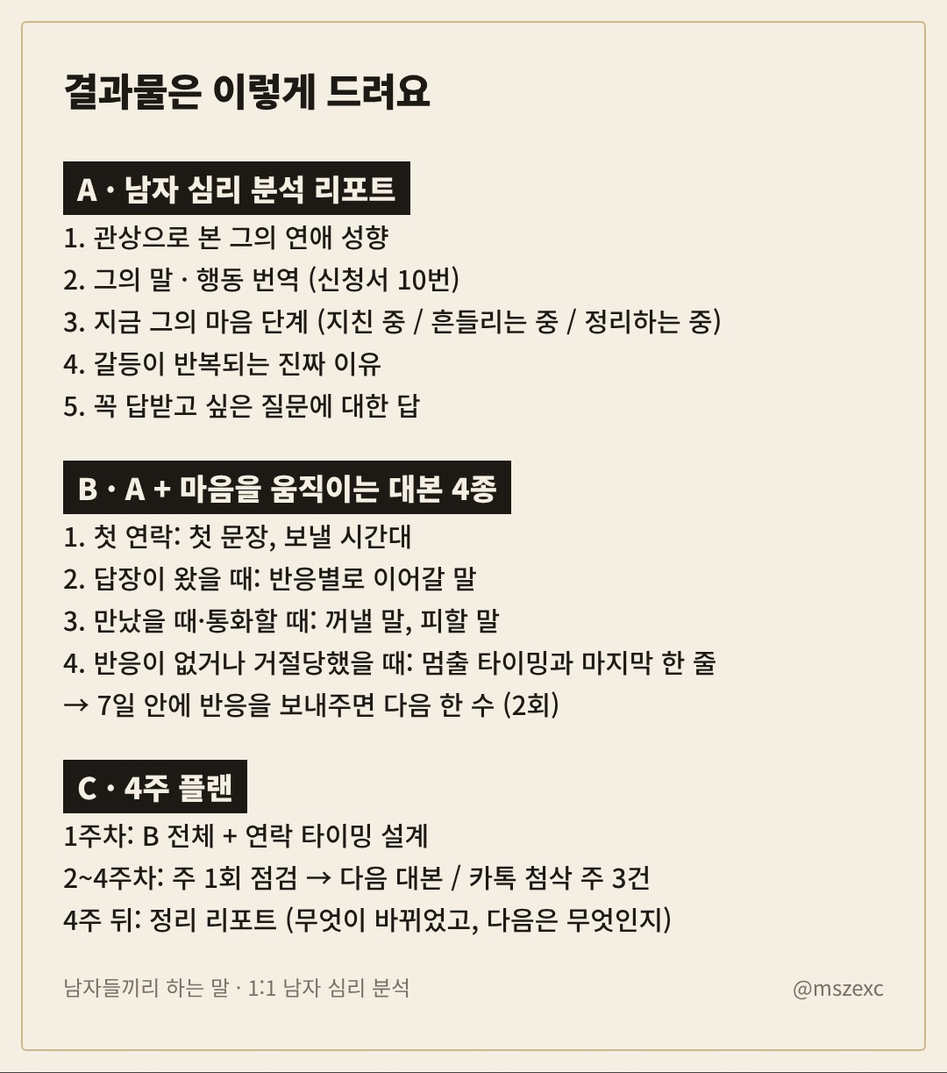
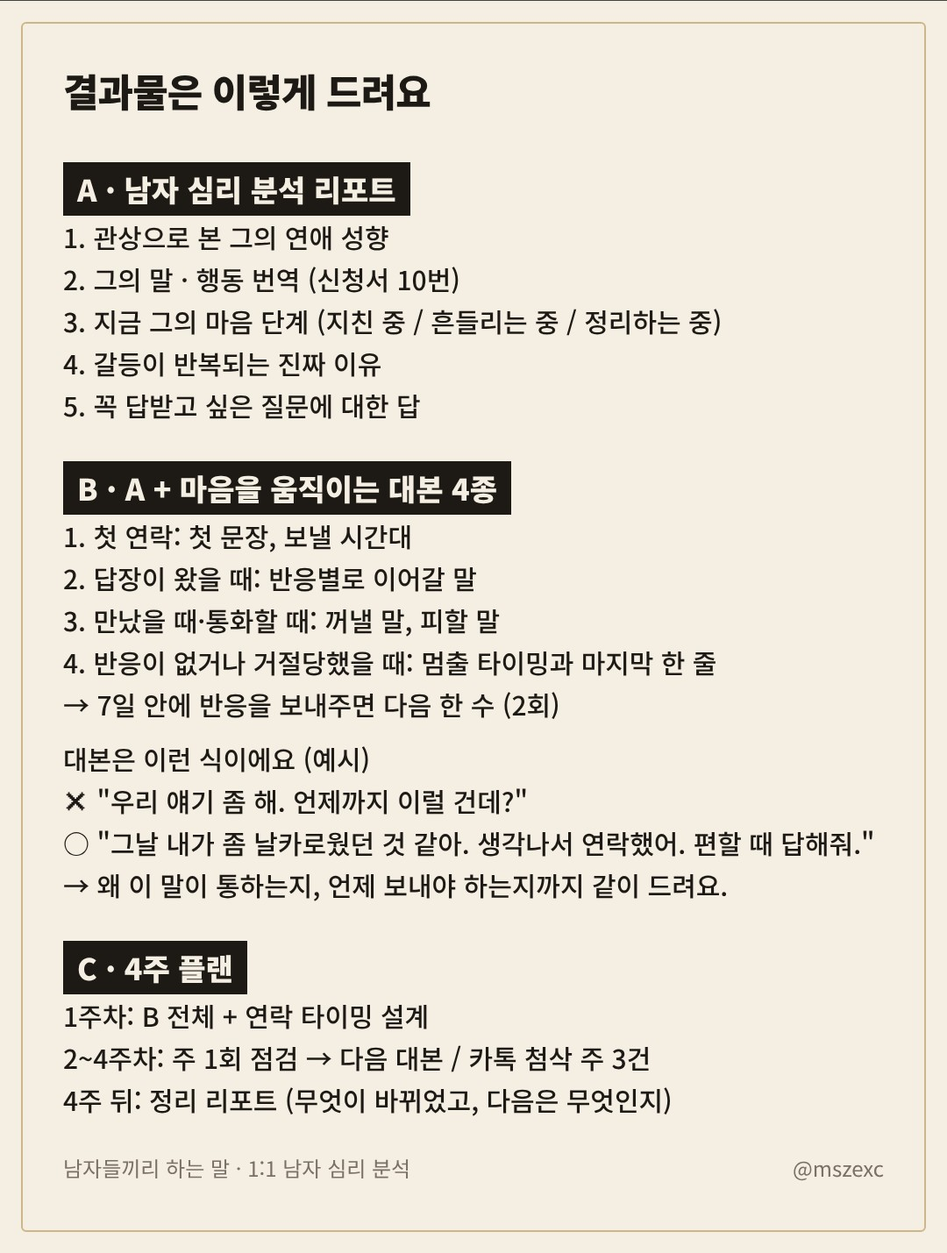
Consult docs: sales pass (hook, reviews pointer, dated bonus, 4-step apply, payment reply, upsell, script example)
Claude-Session: https://claude.ai/code/session_01J9i5yL8MFhQ5W67Sx3nDW6

Changed region(s): [[0.0, 0.0621, 1.0, 1.0], [0.0306, 0.0, 0.9778, 0.0311]]

diff --git a/consult/kakao_menu/docs.html b/consult/kakao_menu/docs.html
@@ -26,7 +26,7 @@
 <section class="k" id="card_guide"><div class="top">남자가 직접, 그 사람 마음을 번역해 드려요</div><div class="ti">1:1 남자 심리 분석 안내</div><ul><li>A 5만 · B 10만 ★추천 · C 39만 (월 3명)</li><li>관상 · 카톡 · 상황을 남자 입장에서</li><li>신청은 채팅으로 &quot;A · B · C 신청&quot;</li></ul><div class="ft"><span>남자들끼리 하는 말 · 1:1 남자 심리 분석</span><span>@mszexc</span></div></section>
 <section class="k" id="card_form"><div class="top">입금 확인 후 보내드려요</div><div class="ti">신청서 · 이것만 준비하세요</div><ul><li>얼굴 사진 (나 1장 · 그 1~2장)</li><li>둘의 이야기 + 그의 카톡 · 만날 때 모습</li><li>카톡 캡처 10장 · 꼭 답받고 싶은 질문</li></ul><div class="ft"><span>남자들끼리 하는 말 · 1:1 남자 심리 분석</span><span>@mszexc</span></div></section>
 <section class="k" id="card_report"><div class="top">72시간 안에 서면으로</div><div class="ti">결과물은 이렇게 드려요</div><ul><li>A · 성향 / 말 번역 / 마음 단계 / 갈등 이유</li><li>B · A + 상황별 대본 4종 + 피드백 2회</li><li>C · B + 4주 점검 · 첨삭 주 3건 · 정리 리포트</li></ul><div class="ft"><span>남자들끼리 하는 말 · 1:1 남자 심리 분석</span><span>@mszexc</span></div></section>
-<section class="doc" id="doc_guide"><div class="ttl">남자들끼리 하는 말 · 남자 심리 분석</div><div class="sp"></div><div class="ln">남자가 직접, 그 사람의 마음을 번역해 드립니다.</div><div class="ln">관상 · 카톡 · 상황을 함께 보고, 남자 입장에서 답을 드려요.</div><div class="sp"></div><div class="sec">A. 남자 심리 분석 · 50,000원</div><div class="ln">그가 왜 그러는지 알고 싶은 분</div><div class="li">질문지 + 카톡 캡처 10장 + 관상</div><div class="li">서면 분석 리포트 (그의 성향 / 말 번역 / 지금 마음 단계 / 갈등의 진짜 이유)</div><div class="li">추가 질문 1회 · 72시간 안에 전달</div><div class="sp"></div><div class="sec">B. 심리 분석 + 마음을 움직이는 대본 · 100,000원  ★추천</div><div class="ln">&quot;그래서 뭐라고 보내야 해?&quot;까지 알고 싶은 분</div><div class="li">A의 모든 내용</div><div class="li">상황별 대본 4종 (첫 연락 / 답장 왔을 때 / 만났을 때 / 반응 없을 때)</div><div class="li">7일 안 피드백 2회 (1회 = 메시지 1개 + 캡처 3장)</div><div class="sp"></div><div class="sec">C. 재회·관계 회복 4주 플랜 · 390,000원  (월 3명 한정)</div><div class="ln">끝까지 같이 가고 싶은 분</div><div class="li">B의 모든 내용</div><div class="li">4주 동안 주 1회 점검 + 다음 대본</div><div class="li">보내기 전 카톡 첨삭 주 3건 · 4주 뒤 정리 리포트</div><div class="sp"></div><div class="sec">추가 옵션 (신청자 전용)</div><div class="li">카톡 첨삭 1건 20,000원 · 3건 묶음 50,000원</div><div class="li">추가 질문 1회 20,000원</div><div class="li">24시간 급행 +30,000원 (하루 1건)</div><div class="li">답장 왔을 때 긴급 첨삭 (6시간 안) 30,000원 (하루 1건)</div><div class="note">※ 기한은 채팅 가능 시간 안에서 세요. 급행은 신청서 · 사진 · 캡처가 다 도착한 때부터 24시간이에요.</div><div class="sp"></div><div class="sec">혜택</div><div class="li">오픈 첫 주: B를 신청하신 첫 10분께 카톡 첨삭 2건을 함께 드려요.</div><div class="li">다시 신청하실 때: 결과물을 받고 30일 안에 다시 신청하시면 추가 질문 1회를 드려요.</div><div class="sp"></div><div class="sec">가격이 고민되신다면</div><div class="ln">월급 250만 원 기준으로 B(10만 원)는 한 달 월급의 4%예요.</div><div class="ln">하루로 나누면 3,300원, 커피 한 잔 값이에요.</div><div class="sp"></div><div class="ln">이미 불안해서 여기까지 오셨잖아요.</div><div class="ln">돈 몇 푼 아끼다 그 사람과의 관계를 더 어렵게 만들 건지,</div><div class="ln">그 4%로 그의 마음을 읽고 다음 한 수를 준비할 건지.</div><div class="sp"></div><div class="ln">제가 드리는 건 남자를 이해하는 눈이에요.</div><div class="ln">남자를 알면, 그 사람을 대하는 게 훨씬 쉬워져요.</div><div class="ln">결과를 100% 장담할 수는 없지만, 관계가 좋아질 가능성은 분명히 높일 수 있어요.</div><div class="sp"></div><div class="ln">선택은 당신의 몫이에요.</div><div class="sp"></div><div class="sec">신청 방법</div><div class="ln">1) 원하는 상품을 채팅으로 알려주세요</div><div class="ln">2) 입금 확인 후 신청서를 보내드려요</div><div class="ln">3) 신청서 + 사진 + 캡처를 보내주시면 분석을 시작합니다</div><div class="sp"></div><div class="note">※ 남자 입장에서 상황을 해석해 드리는 서비스이며, 의료 · 치료 목적의 서비스가 아닙니다.</div><div class="note">※ 재회, 관계 회복 등 원하시는 결과를 100% 장담하지 않습니다. 상대의 마음과 선택은 상대에게 달려 있어서, 제가 드리는 건 가능성을 높이는 해석과 방법입니다.</div><div class="note">※ 분석 작성 시작 전에는 전액 환불, 시작 후에는 환불이 어렵습니다.</div><div class="note">※ 재회 등 결과를 이유로 한 환불은 어렵습니다.</div><div class="ft2"><span>남자들끼리 하는 말 · 1:1 남자 심리 분석</span><span>@mszexc</span></div></section>
-<section class="doc" id="doc_form"><div class="ttl">남자들끼리 하는 말 · 남자 심리 분석 신청서</div><div class="sp"></div><div class="note">※ 남자 입장에서 상황을 해석해 드리는 서비스이며, 의료 · 치료 목적의 서비스가 아닙니다.</div><div class="note">※ 재회, 관계 회복 등 원하시는 결과를 100% 장담하지 않습니다. 상대의 마음과 선택은 상대에게 달려 있어서, 제가 드리는 건 가능성을 높이는 해석과 방법입니다.</div><div class="note">※ 이 신청서를 길게 눌러 복사 → 채팅창에 붙여넣고 빈칸만 채워서 보내주세요.</div><div class="note">※ 사진 · 캡처는 신청서를 보낸 다음, 사진으로 이어서 보내주세요.</div><div class="sp"></div><div class="ln">신청 상품 (A / B / C 중 하나):</div><div class="ln">입금자명 (입금 확인용):</div><div class="ln">추가 옵션 (24시간 급행 등 · 없으면 비워두세요):</div><div class="sp"></div><div class="sec">1. 기본 정보</div><div class="ln">1) 이름:</div><div class="ln">2) 나이 · MBTI: 나 ___ / 그 ___ (MBTI는 모르면 비워두세요)</div><div class="ln">3) 지금 관계: 연애 중 / 썸 / 헤어짐 / 재회 고민 / 기타</div><div class="ln">4) 만난 기간 (헤어졌다면 사귄 기간 + 헤어진 지 얼마나):</div><div class="sp"></div><div class="sec">2. 관상</div><div class="ln">5) 본인 얼굴 사진 1장 (정면, 얼굴이 잘 보이게)</div><div class="ln">6) 상대 얼굴 사진 1~2장 (정면이면 좋아요)</div><div class="note">※ 1년 안에 찍은 사진, 필터 · 보정 없는 사진으로 보내주세요.</div><div class="note">※ 사진은 분석에만 쓰고 분석이 끝나면 바로 삭제합니다. 어디에도 공유하지 않습니다.</div><div class="sp"></div><div class="sec">3. 둘의 이야기</div><div class="ln">7) 처음 만난 날부터 지금까지, 둘의 이야기를 편하게 적어주세요.</div><div class="sub">아래 내용이 들어가면 좋아요. 순서는 상관없고, 모르는 건 빼도 돼요.</div><div class="sub">- 어디서, 어떻게 만났는지</div><div class="sub">- 누가 먼저 다가갔고, 누가 고백했는지</div><div class="sub">- 그는 술 · 담배를 하는지, 평소 뭘 좋아하는지 (취미 · 일 · 친구)</div><div class="sub">- 주로 무엇 때문에 싸웠고, 싸우면 그는 어떻게 하는지</div><div class="sub">- (헤어졌다면) 누가, 어떤 말로 헤어지자고 했는지</div><div class="sub">- 지금 연락 상태 (잘 됨 / 뜸함 / 읽고 답 없음 / 차단 / 내가 끊음)</div><div class="sub">→</div><div class="sp"></div><div class="ln">8) 그는 만났을 때와 카톡 · DM 할 때 어떻게 달라요?</div><div class="sub">(말투, 표현, 누가 먼저 연락하는지, 답장이 얼마 만에 오는지 · 예전과 지금이 다르면 같이 적어주세요)</div><div class="sub">→</div><div class="sp"></div><div class="sec">4. 지금 고민</div><div class="ln">9) 지금 제일 고민되는 걸 자세하게 적어주세요.</div><div class="sub">(무엇이 걱정되는지, 왜 그런 생각이 드는지 · 길어도 괜찮아요)</div><div class="sub">→</div><div class="ln">10) 해석받고 싶은 그의 말이나 행동을 자유롭게 적어주세요.</div><div class="sub">(그가 한 말은 들은 그대로 적어주시면 더 정확해요)</div><div class="sub">→</div><div class="ln">11) 지금까지 내가 해본 것 (보낸 말 · 행동)과 그의 반응:</div><div class="note">※ 이미 해본 걸 다시 권하지 않으려고 여쭤봐요. 해본 게 없다면 비워두셔도 돼요.</div><div class="ln">12) 카톡 캡처 (최대 10장) ※ 가장 최근 대화 + 분위기가 바뀐 시점의 대화를 섞어서 보내주세요.</div><div class="sp"></div><div class="sec">5. 내가 원하는 것</div><div class="ln">13) 아래 중 하나를 적어주세요: 재회 / 관계 회복 / 그의 속마음만 알고 싶음 / 깔끔하게 정리 / 아직 모르겠음</div><div class="sub">→</div><div class="ln">14) 꼭 답받고 싶은 질문 (1~3개):</div><div class="sub">- 언제까지 답이 필요한가요? (예: 이번 주말에 만나기로 함 · 급하지 않음)</div><div class="sp"></div><div class="sec">6. 확인 및 개인정보 동의 (각 줄 끝에 &quot;동의&quot;라고 적어주세요)</div><div class="ln">15) (필수) 재회·관계 회복 등 원하는 결과를 100% 장담하지 않으며, 결과를 이유로 한 환불은 어렵다는 점을 확인했습니다. →</div><div class="ln">16) (필수) 이름, 나이, 사진, 대화 내용을 분석 목적으로만 수집·이용하는 데 동의합니다. 사진은 분석이 끝나면 바로, 나머지 정보는 30일 후 삭제합니다. →</div><div class="ln">17) (선택) 후기를 남겨주시면 이름과 세부 내용을 바꿔서 소개해도 됩니다. (동의 / 비동의) →</div><div class="ft2"><span>남자들끼리 하는 말 · 1:1 남자 심리 분석</span><span>@mszexc</span></div></section>
-<section class="doc" id="doc_report"><div class="ttl">결과물은 이렇게 드려요</div><div class="sp"></div><div class="sec">A · 남자 심리 분석 리포트</div><div class="ln">1. 관상으로 본 그의 연애 성향</div><div class="ln">2. 그의 말 · 행동 번역 (신청서 10번)</div><div class="ln">3. 지금 그의 마음 단계 (지친 중 / 흔들리는 중 / 정리하는 중)</div><div class="ln">4. 갈등이 반복되는 진짜 이유</div><div class="ln">5. 꼭 답받고 싶은 질문에 대한 답</div><div class="sp"></div><div class="sec">B · A + 마음을 움직이는 대본 4종</div><div class="ln">1. 첫 연락: 첫 문장, 보낼 시간대</div><div class="ln">2. 답장이 왔을 때: 반응별로 이어갈 말</div><div class="ln">3. 만났을 때·통화할 때: 꺼낼 말, 피할 말</div><div class="ln">4. 반응이 없거나 거절당했을 때: 멈출 타이밍과 마지막 한 줄</div><div class="ln">→ 7일 안에 반응을 보내주면 다음 한 수 (2회)</div><div class="sp"></div><div class="sec">C · 4주 플랜</div><div class="ln">1주차: B 전체 + 연락 타이밍 설계</div><div class="ln">2~4주차: 주 1회 점검 → 다음 대본 / 카톡 첨삭 주 3건</div><div class="ln">4주 뒤: 정리 리포트 (무엇이 바뀌었고, 다음은 무엇인지)</div><div class="ft2"><span>남자들끼리 하는 말 · 1:1 남자 심리 분석</span><span>@mszexc</span></div></section>
+<section class="doc" id="doc_guide"><div class="ttl">남자들끼리 하는 말 · 남자 심리 분석</div><div class="sp"></div><div class="ln">그 사람이 왜 그러는지, 이제 뭐라고 보내야 하는지.</div><div class="ln">남자가 직접, 그 사람의 마음을 번역해 드립니다.</div><div class="ln">관상 · 카톡 · 상황을 함께 보고, 남자 입장에서 답을 드려요.</div><div class="sp"></div><div class="ln">📌 받아보신 분들 후기는 인스타 @mszexc 하이라이트 「후기」에 있어요.</div><div class="sp"></div><div class="sec">A. 남자 심리 분석 · 50,000원</div><div class="ln">그가 왜 그러는지 알고 싶은 분</div><div class="li">질문지 + 카톡 캡처 10장 + 관상</div><div class="li">서면 분석 리포트 (그의 성향 / 말 번역 / 지금 마음 단계 / 갈등의 진짜 이유)</div><div class="li">추가 질문 1회 · 72시간 안에 전달</div><div class="sp"></div><div class="sec">B. 심리 분석 + 마음을 움직이는 대본 · 100,000원  ★추천</div><div class="ln">&quot;그래서 뭐라고 보내야 해?&quot;까지 알고 싶은 분</div><div class="li">A의 모든 내용</div><div class="li">상황별 대본 4종 (첫 연락 / 답장 왔을 때 / 만났을 때 / 반응 없을 때)</div><div class="li">7일 안 피드백 2회 (1회 = 메시지 1개 + 캡처 3장)</div><div class="sp"></div><div class="sec">C. 재회·관계 회복 4주 플랜 · 390,000원  (월 3명 한정)</div><div class="ln">끝까지 같이 가고 싶은 분</div><div class="li">B의 모든 내용</div><div class="li">4주 동안 주 1회 점검 + 다음 대본</div><div class="li">보내기 전 카톡 첨삭 주 3건 · 4주 뒤 정리 리포트</div><div class="sp"></div><div class="sec">추가 옵션 (신청자 전용)</div><div class="li">카톡 첨삭 1건 20,000원 · 3건 묶음 50,000원</div><div class="li">추가 질문 1회 20,000원</div><div class="li">24시간 급행 +30,000원 (하루 1건)</div><div class="li">답장 왔을 때 긴급 첨삭 (6시간 안) 30,000원 (하루 1건)</div><div class="note">※ 기한은 채팅 가능 시간 안에서 세요. 급행은 신청서 · 사진 · 캡처가 다 도착한 때부터 24시간이에요.</div><div class="sp"></div><div class="sec">혜택</div><div class="li">오픈 첫 주 (11/8까지): B를 신청하신 첫 10분께 카톡 첨삭 2건을 함께 드려요.</div><div class="li">다시 신청하실 때: 결과물을 받고 30일 안에 다시 신청하시면 추가 질문 1회를 드려요.</div><div class="sp"></div><div class="sec">가격이 고민되신다면</div><div class="ln">월급 250만 원 기준으로 B(10만 원)는 한 달 월급의 4%예요.</div><div class="ln">하루로 나누면 3,300원, 커피 한 잔 값이에요.</div><div class="sp"></div><div class="ln">이미 불안해서 여기까지 오셨잖아요.</div><div class="ln">돈 몇 푼 아끼다 그 사람과의 관계를 더 어렵게 만들 건지,</div><div class="ln">그 4%로 그의 마음을 읽고 다음 한 수를 준비할 건지.</div><div class="sp"></div><div class="ln">제가 드리는 건 남자를 이해하는 눈이에요.</div><div class="ln">남자를 알면, 그 사람을 대하는 게 훨씬 쉬워져요.</div><div class="ln">결과를 100% 장담할 수는 없지만, 관계가 좋아질 가능성은 분명히 높일 수 있어요.</div><div class="sp"></div><div class="ln">선택은 당신의 몫이에요.</div><div class="sp"></div><div class="sec">신청 방법 (3분이면 끝나요)</div><div class="ln">1) 채팅으로 &quot;B 신청&quot;처럼 상품만 남겨주세요</div><div class="ln">2) 바로 입금 안내를 드려요 (계좌이체)</div><div class="ln">3) 입금되면 신청서를 보내드려요 → 채워서 사진 · 캡처와 보내주시면 분석 시작</div><div class="ln">4) 다 도착한 때부터 72시간 안에 결과물을 드려요</div><div class="sp"></div><div class="note">※ 남자 입장에서 상황을 해석해 드리는 서비스이며, 의료 · 치료 목적의 서비스가 아닙니다.</div><div class="note">※ 결과를 100% 장담하지는 않아요. 그의 선택은 그에게 달려 있어서, 제가 드리는 건 가능성을 높이는 해석과 방법이에요.</div><div class="note">※ 분석 시작 전에는 전액 환불, 시작 후에는 (결과를 이유로 한 경우도) 환불이 어려워요.</div><div class="ft2"><span>남자들끼리 하는 말 · 1:1 남자 심리 분석</span><span>@mszexc</span></div></section>
+<section class="doc" id="doc_form"><div class="ttl">남자들끼리 하는 말 · 남자 심리 분석 신청서</div><div class="sp"></div><div class="note">※ 남자 입장에서 상황을 해석해 드리는 서비스이며, 의료 · 치료 목적의 서비스가 아닙니다.</div><div class="note">※ 재회, 관계 회복 등 원하시는 결과를 100% 장담하지 않습니다. 상대의 마음과 선택은 상대에게 달려 있어서, 제가 드리는 건 가능성을 높이는 해석과 방법입니다.</div><div class="note">※ 이 신청서를 길게 눌러 복사 → 채팅창에 붙여넣고 빈칸만 채워서 보내주세요.</div><div class="note">※ 사진 · 캡처는 신청서를 보낸 다음, 사진으로 이어서 보내주세요.</div><div class="note">※ 다 못 채워도 괜찮아요. 아는 만큼만 적어주시면 나머지는 제가 여쭤볼게요.</div><div class="sp"></div><div class="ln">신청 상품 (A / B / C 중 하나):</div><div class="ln">입금자명 (입금 확인용):</div><div class="ln">추가 옵션 (24시간 급행 등 · 없으면 비워두세요):</div><div class="sp"></div><div class="sec">1. 기본 정보</div><div class="ln">1) 이름:</div><div class="ln">2) 나이 · MBTI: 나 ___ / 그 ___ (MBTI는 모르면 비워두세요)</div><div class="ln">3) 지금 관계: 연애 중 / 썸 / 헤어짐 / 재회 고민 / 기타</div><div class="ln">4) 만난 기간 (헤어졌다면 사귄 기간 + 헤어진 지 얼마나):</div><div class="sp"></div><div class="sec">2. 관상</div><div class="ln">5) 본인 얼굴 사진 1장 (정면, 얼굴이 잘 보이게)</div><div class="ln">6) 상대 얼굴 사진 1~2장 (정면이면 좋아요)</div><div class="note">※ 1년 안에 찍은 사진, 필터 · 보정 없는 사진으로 보내주세요.</div><div class="note">※ 사진은 분석에만 쓰고 분석이 끝나면 바로 삭제합니다. 어디에도 공유하지 않습니다.</div><div class="sp"></div><div class="sec">3. 둘의 이야기</div><div class="ln">7) 처음 만난 날부터 지금까지, 둘의 이야기를 편하게 적어주세요.</div><div class="sub">아래 내용이 들어가면 좋아요. 순서는 상관없고, 모르는 건 빼도 돼요.</div><div class="sub">- 어디서, 어떻게 만났는지</div><div class="sub">- 누가 먼저 다가갔고, 누가 고백했는지</div><div class="sub">- 그는 술 · 담배를 하는지, 평소 뭘 좋아하는지 (취미 · 일 · 친구)</div><div class="sub">- 주로 무엇 때문에 싸웠고, 싸우면 그는 어떻게 하는지</div><div class="sub">- (헤어졌다면) 누가, 어떤 말로 헤어지자고 했는지</div><div class="sub">- 지금 연락 상태 (잘 됨 / 뜸함 / 읽고 답 없음 / 차단 / 내가 끊음)</div><div class="sub">→</div><div class="sp"></div><div class="ln">8) 그는 만났을 때와 카톡 · DM 할 때 어떻게 달라요?</div><div class="sub">(말투, 표현, 누가 먼저 연락하는지, 답장이 얼마 만에 오는지 · 예전과 지금이 다르면 같이 적어주세요)</div><div class="sub">→</div><div class="sp"></div><div class="sec">4. 지금 고민</div><div class="ln">9) 지금 제일 고민되는 걸 자세하게 적어주세요.</div><div class="sub">(무엇이 걱정되는지, 왜 그런 생각이 드는지 · 길어도 괜찮아요)</div><div class="sub">→</div><div class="ln">10) 해석받고 싶은 그의 말이나 행동을 자유롭게 적어주세요.</div><div class="sub">(그가 한 말은 들은 그대로 적어주시면 더 정확해요)</div><div class="sub">→</div><div class="ln">11) 지금까지 내가 해본 것 (보낸 말 · 행동)과 그의 반응:</div><div class="note">※ 이미 해본 걸 다시 권하지 않으려고 여쭤봐요. 해본 게 없다면 비워두셔도 돼요.</div><div class="ln">12) 카톡 캡처 (최대 10장) ※ 가장 최근 대화 + 분위기가 바뀐 시점의 대화를 섞어서 보내주세요.</div><div class="sp"></div><div class="sec">5. 내가 원하는 것</div><div class="ln">13) 아래 중 하나를 적어주세요: 재회 / 관계 회복 / 그의 속마음만 알고 싶음 / 깔끔하게 정리 / 아직 모르겠음</div><div class="sub">→</div><div class="ln">14) 꼭 답받고 싶은 질문 (1~3개):</div><div class="sub">- 언제까지 답이 필요한가요? (예: 이번 주말에 만나기로 함 · 급하지 않음)</div><div class="sp"></div><div class="sec">6. 확인 및 개인정보 동의 (각 줄 끝에 &quot;동의&quot;라고 적어주세요)</div><div class="ln">15) (필수) 재회·관계 회복 등 원하는 결과를 100% 장담하지 않으며, 결과를 이유로 한 환불은 어렵다는 점을 확인했습니다. →</div><div class="ln">16) (필수) 이름, 나이, 사진, 대화 내용을 분석 목적으로만 수집·이용하는 데 동의합니다. 사진은 분석이 끝나면 바로, 나머지 정보는 30일 후 삭제합니다. →</div><div class="ln">17) (선택) 후기를 남겨주시면 이름과 세부 내용을 바꿔서 소개해도 됩니다. (동의 / 비동의) →</div><div class="ft2"><span>남자들끼리 하는 말 · 1:1 남자 심리 분석</span><span>@mszexc</span></div></section>
+<section class="doc" id="doc_report"><div class="ttl">결과물은 이렇게 드려요</div><div class="sp"></div><div class="sec">A · 남자 심리 분석 리포트</div><div class="ln">1. 관상으로 본 그의 연애 성향</div><div class="ln">2. 그의 말 · 행동 번역 (신청서 10번)</div><div class="ln">3. 지금 그의 마음 단계 (지친 중 / 흔들리는 중 / 정리하는 중)</div><div class="ln">4. 갈등이 반복되는 진짜 이유</div><div class="ln">5. 꼭 답받고 싶은 질문에 대한 답</div><div class="sp"></div><div class="sec">B · A + 마음을 움직이는 대본 4종</div><div class="ln">1. 첫 연락: 첫 문장, 보낼 시간대</div><div class="ln">2. 답장이 왔을 때: 반응별로 이어갈 말</div><div class="ln">3. 만났을 때·통화할 때: 꺼낼 말, 피할 말</div><div class="ln">4. 반응이 없거나 거절당했을 때: 멈출 타이밍과 마지막 한 줄</div><div class="ln">→ 7일 안에 반응을 보내주면 다음 한 수 (2회)</div><div class="sp"></div><div class="ln">대본은 이런 식이에요 (예시)</div><div class="ln">✕ &quot;우리 얘기 좀 해. 언제까지 이럴 건데?&quot;</div><div class="ln">○ &quot;그날 내가 좀 날카로웠던 것 같아. 생각나서 연락했어. 편할 때 답해줘.&quot;</div><div class="ln">→ 왜 이 말이 통하는지, 언제 보내야 하는지까지 같이 드려요.</div><div class="sp"></div><div class="sec">C · 4주 플랜</div><div class="ln">1주차: B 전체 + 연락 타이밍 설계</div><div class="ln">2~4주차: 주 1회 점검 → 다음 대본 / 카톡 첨삭 주 3건</div><div class="ln">4주 뒤: 정리 리포트 (무엇이 바뀌었고, 다음은 무엇인지)</div><div class="ft2"><span>남자들끼리 하는 말 · 1:1 남자 심리 분석</span><span>@mszexc</span></div></section>
 </body></html>

diff --git a/consult/menu.py b/consult/menu.py
@@ -28,8 +28,11 @@ NOTES = [
 ]
 GUIDE = '''[남자들끼리 하는 말 · 남자 심리 분석]
 
+그 사람이 왜 그러는지, 이제 뭐라고 보내야 하는지.
 남자가 직접, 그 사람의 마음을 번역해 드립니다.
 관상 · 카톡 · 상황을 함께 보고, 남자 입장에서 답을 드려요.
+
+📌 받아보신 분들 후기는 인스타 @mszexc 하이라이트 「후기」에 있어요.
 
 ■ A. 남자 심리 분석 · 50,000원
 그가 왜 그러는지 알고 싶은 분
@@ -57,7 +60,7 @@ GUIDE = '''[남자들끼리 하는 말 · 남자 심리 분석]
 ※ 기한은 채팅 가능 시간 안에서 세요. 급행은 신청서 · 사진 · 캡처가 다 도착한 때부터 24시간이에요.
 
 ■ 혜택
-- 오픈 첫 주: B를 신청하신 첫 10분께 카톡 첨삭 2건을 함께 드려요.
+- 오픈 첫 주 (11/8까지): B를 신청하신 첫 10분께 카톡 첨삭 2건을 함께 드려요.
 - 다시 신청하실 때: 결과물을 받고 30일 안에 다시 신청하시면 추가 질문 1회를 드려요.
 
 ■ 가격이 고민되신다면
@@ -74,21 +77,22 @@ GUIDE = '''[남자들끼리 하는 말 · 남자 심리 분석]
 
 선택은 당신의 몫이에요.
 
-■ 신청 방법
-1) 원하는 상품을 채팅으로 알려주세요
-2) 입금 확인 후 신청서를 보내드려요
-3) 신청서 + 사진 + 캡처를 보내주시면 분석을 시작합니다
+■ 신청 방법 (3분이면 끝나요)
+1) 채팅으로 "B 신청"처럼 상품만 남겨주세요
+2) 바로 입금 안내를 드려요 (계좌이체)
+3) 입금되면 신청서를 보내드려요 → 채워서 사진 · 캡처와 보내주시면 분석 시작
+4) 다 도착한 때부터 72시간 안에 결과물을 드려요
 
 ※ 남자 입장에서 상황을 해석해 드리는 서비스이며, 전문 심리상담이 아닙니다.
-※ 재회, 관계 회복 등 원하시는 결과를 100% 장담하지 않습니다. 상대의 마음과 선택은 상대에게 달려 있어서, 제가 드리는 건 가능성을 높이는 해석과 방법입니다.
-※ 분석 작성 시작 전에는 전액 환불, 시작 후에는 환불이 어렵습니다.
-※ 재회 등 결과를 이유로 한 환불은 어렵습니다.'''
+※ 결과를 100% 장담하지는 않아요. 그의 선택은 그에게 달려 있어서, 제가 드리는 건 가능성을 높이는 해석과 방법이에요.
+※ 분석 시작 전에는 전액 환불, 시작 후에는 (결과를 이유로 한 경우도) 환불이 어려워요.'''
 FORM = '''[남자들끼리 하는 말 · 남자 심리 분석 신청서]
 
 ※ 남자 입장에서 상황을 해석해 드리는 서비스이며, 의료 · 치료 목적의 서비스가 아닙니다.
 ※ 재회, 관계 회복 등 원하시는 결과를 100% 장담하지 않습니다. 상대의 마음과 선택은 상대에게 달려 있어서, 제가 드리는 건 가능성을 높이는 해석과 방법입니다.
 ※ 이 신청서를 길게 눌러 복사 → 채팅창에 붙여넣고 빈칸만 채워서 보내주세요.
 ※ 사진 · 캡처는 신청서를 보낸 다음, 사진으로 이어서 보내주세요.
+※ 다 못 채워도 괜찮아요. 아는 만큼만 적어주시면 나머지는 제가 여쭤볼게요.
 
 신청 상품 (A / B / C 중 하나):
 입금자명 (입금 확인용):
@@ -157,6 +161,11 @@ B · A + 마음을 움직이는 대본 4종
 3. 만났을 때·통화할 때: 꺼낼 말, 피할 말
 4. 반응이 없거나 거절당했을 때: 멈출 타이밍과 마지막 한 줄
 → 7일 안에 반응을 보내주면 다음 한 수 (2회)
+
+대본은 이런 식이에요 (예시)
+✕ "우리 얘기 좀 해. 언제까지 이럴 건데?"
+○ "그날 내가 좀 날카로웠던 것 같아. 생각나서 연락했어. 편할 때 답해줘."
+→ 왜 이 말이 통하는지, 언제 보내야 하는지까지 같이 드려요.
 
 C · 4주 플랜
 1주차: B 전체 + 연락 타이밍 설계

diff --git a/consult/menu.md b/consult/menu.md
@@ -46,8 +46,11 @@
 ```
 [남자들끼리 하는 말 · 남자 심리 분석]
 
+그 사람이 왜 그러는지, 이제 뭐라고 보내야 하는지.
 남자가 직접, 그 사람의 마음을 번역해 드립니다.
 관상 · 카톡 · 상황을 함께 보고, 남자 입장에서 답을 드려요.
+
+📌 받아보신 분들 후기는 인스타 @mszexc 하이라이트 「후기」에 있어요.
 
 ■ A. 남자 심리 분석 · 50,000원
 그가 왜 그러는지 알고 싶은 분
@@ -75,7 +78,7 @@
 ※ 기한은 채팅 가능 시간 안에서 세요. 급행은 신청서 · 사진 · 캡처가 다 도착한 때부터 24시간이에요.
 
 ■ 혜택
-- 오픈 첫 주: B를 신청하신 첫 10분께 카톡 첨삭 2건을 함께 드려요.
+- 오픈 첫 주 (11/8까지): B를 신청하신 첫 10분께 카톡 첨삭 2건을 함께 드려요.
 - 다시 신청하실 때: 결과물을 받고 30일 안에 다시 신청하시면 추가 질문 1회를 드려요.
 
 ■ 가격이 고민되신다면
@@ -92,15 +95,15 @@
 
 선택은 당신의 몫이에요.
 
-■ 신청 방법
-1) 원하는 상품을 채팅으로 알려주세요
-2) 입금 확인 후 신청서를 보내드려요
-3) 신청서 + 사진 + 캡처를 보내주시면 분석을 시작합니다
+■ 신청 방법 (3분이면 끝나요)
+1) 채팅으로 "B 신청"처럼 상품만 남겨주세요
+2) 바로 입금 안내를 드려요 (계좌이체)
+3) 입금되면 신청서를 보내드려요 → 채워서 사진 · 캡처와 보내주시면 분석 시작
+4) 다 도착한 때부터 72시간 안에 결과물을 드려요
 
 ※ 남자 입장에서 상황을 해석해 드리는 서비스이며, 전문 심리상담이 아닙니다.
-※ 재회, 관계 회복 등 원하시는 결과를 100% 장담하지 않습니다. 상대의 마음과 선택은 상대에게 달려 있어서, 제가 드리는 건 가능성을 높이는 해석과 방법입니다.
-※ 분석 작성 시작 전에는 전액 환불, 시작 후에는 환불이 어렵습니다.
-※ 재회 등 결과를 이유로 한 환불은 어렵습니다.
+※ 결과를 100% 장담하지는 않아요. 그의 선택은 그에게 달려 있어서, 제가 드리는 건 가능성을 높이는 해석과 방법이에요.
+※ 분석 시작 전에는 전액 환불, 시작 후에는 (결과를 이유로 한 경우도) 환불이 어려워요.
 ```
 
 ## 신청서
@@ -111,6 +114,7 @@
 ※ 재회, 관계 회복 등 원하시는 결과를 100% 장담하지 않습니다. 상대의 마음과 선택은 상대에게 달려 있어서, 제가 드리는 건 가능성을 높이는 해석과 방법입니다.
 ※ 이 신청서를 길게 눌러 복사 → 채팅창에 붙여넣고 빈칸만 채워서 보내주세요.
 ※ 사진 · 캡처는 신청서를 보낸 다음, 사진으로 이어서 보내주세요.
+※ 다 못 채워도 괜찮아요. 아는 만큼만 적어주시면 나머지는 제가 여쭤볼게요.
 
 신청 상품 (A / B / C 중 하나):
 입금자명 (입금 확인용):
@@ -183,6 +187,11 @@ B · A + 마음을 움직이는 대본 4종
 3. 만났을 때·통화할 때: 꺼낼 말, 피할 말
 4. 반응이 없거나 거절당했을 때: 멈출 타이밍과 마지막 한 줄
 → 7일 안에 반응을 보내주면 다음 한 수 (2회)
+
+대본은 이런 식이에요 (예시)
+✕ "우리 얘기 좀 해. 언제까지 이럴 건데?"
+○ "그날 내가 좀 날카로웠던 것 같아. 생각나서 연락했어. 편할 때 답해줘."
+→ 왜 이 말이 통하는지, 언제 보내야 하는지까지 같이 드려요.
 
 C · 4주 플랜
 1주차: B 전체 + 연락 타이밍 설계
